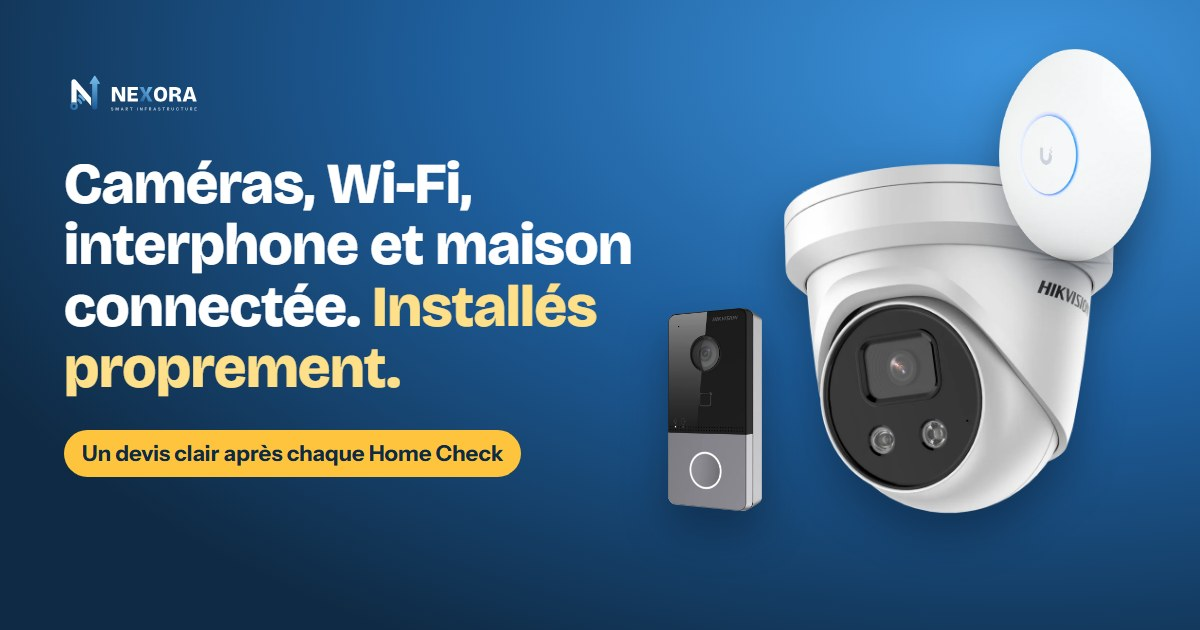
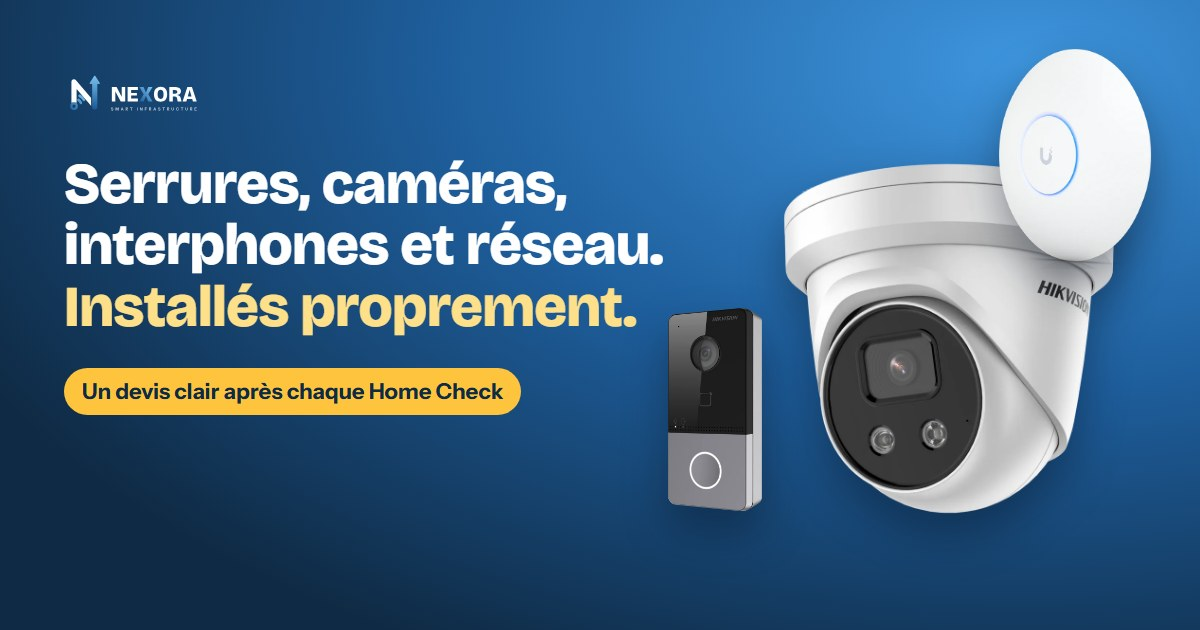
Low-voltage services first (locks, cameras, intercoms, network) and anonymous recent work in Ra'anana

Changed region(s): [[0.0308, 0.4524, 0.5242, 0.7841], [0.0308, 0.2413, 0.555, 0.4222]]

diff --git a/he/index.html b/he/index.html
@@ -26,8 +26,8 @@
   <section class="hero"><div class="in">
     <div>
       <div class="kicker">תשתיות חכמות · רעננה והשרון</div>
-      <h1>מצלמות, Wi-Fi, אינטרקום ובית חכם. <em>בהתקנה מקצועית.</em></h1>
-      <p class="sub">NEXORA מתכננת ומתקינה תשתיות חכמות לבתים ולעסקים: Wi-Fi מהיר בכל חדר, מצלמות מאובטחות, אינטרקום וידאו ואוטומציות.</p>
+      <h1>מנעולים, מצלמות, אינטרקום ורשת. <em>בהתקנה מקצועית.</em></h1>
+      <p class="sub">NEXORA מתכננת ומתקינה תשתיות חכמות לבתים ולעסקים: Wi-Fi מהיר בכל חדר, מצלמות מאובטחות, אינטרקום וידאו ואוטומציות. גם החלפת מערכות ישנות, תיקונים ותמיכה טכנית.</p>
       <div class="ctas"><a class="btn wa" href="https://wa.me/972586497991?text=%D7%A9%D7%9C%D7%95%D7%9D%20NEXORA%2C%20%D7%90%D7%A9%D7%9E%D7%97%20%D7%9C%D7%AA%D7%90%D7%9D%20%D7%91%D7%93%D7%99%D7%A7%D7%AA%20%D7%91%D7%99%D7%AA." target="_blank" rel="noopener"><svg viewBox="0 0 24 24" aria-hidden="true"><path d="M12 3a9 9 0 0 0-7.7 13.6L3 21l4.5-1.2A9 9 0 1 0 12 3z"/><path d="M9 8.5c0 3.6 2.9 6.5 6.5 6.5l1-1.6-2-1-1 1a4.5 4.5 0 0 1-2.4-2.4l1-1-1-2z"/></svg>דברו איתנו בוואטסאפ</a><a class="btn ghost" href="#book">לתיאום בדיקת בית</a></div>
       <div class="offer"><svg viewBox="0 0 24 24" aria-hidden="true"><path d="M5 12.5l4.5 4.5L19 7.5"/></svg>הצעת מחיר ברורה אחרי כל בדיקת בית</div>
     </div>
@@ -37,8 +37,10 @@
     </div>
   </div></section>
 
-  <section class="block" id="services"><h2 class="h2">מה אנחנו מתקינים</h2><div class="grid4"><article class="svc" style="--c:var(--network);--tint:#E5F0FB"><div class="pic"><img src="../img/s-network.webp" alt="" loading="lazy" width="300" height="200"></div><div class="txt"><h3>רשת ו-Wi-Fi</h3><p>Wi-Fi בכל חדר עם נקודות גישה מחווטות, כבילת Cat6 דרך צנרת קיימת כשאפשר, וארון תקשורת מסודר.</p><ul><li><svg viewBox="0 0 24 24" aria-hidden="true"><path d="M5 12.5l4.5 4.5L19 7.5"/></svg><span>נקודות גישה (UniFi, TP-Link Omada)</span></li><li><svg viewBox="0 0 24 24" aria-hidden="true"><path d="M5 12.5l4.5 4.5L19 7.5"/></svg><span>כבילת Cat6 ושקעי רשת</span></li><li><svg viewBox="0 0 24 24" aria-hidden="true"><path d="M5 12.5l4.5 4.5L19 7.5"/></svg><span>מתגי PoE, נתבים וארונות תקשורת</span></li></ul></div></article><article class="svc" style="--c:var(--security);--tint:#FFEDE7"><div class="pic"><img src="../img/s-security.webp" alt="" loading="lazy" width="300" height="200"></div><div class="txt"><h3>מצלמות אבטחה</h3><p>מצלמות IP עם הקלטה אצלכם, צפייה מהטלפון והגדרה מאובטחת.</p><ul><li><svg viewBox="0 0 24 24" aria-hidden="true"><path d="M5 12.5l4.5 4.5L19 7.5"/></svg><span>עד 4K, בהתאם לדגם</span></li><li><svg viewBox="0 0 24 24" aria-hidden="true"><path d="M5 12.5l4.5 4.5L19 7.5"/></svg><span>זיהוי אנשים ורכבים בדגמים תואמים</span></li><li><svg viewBox="0 0 24 24" aria-hidden="true"><path d="M5 12.5l4.5 4.5L19 7.5"/></svg><span>בלי מנוי חודשי להקלטה מקומית</span></li></ul></div></article><article class="svc" style="--c:var(--smart);--tint:#E2F6EF"><div class="pic"><img src="../img/s-smart.webp" alt="" loading="lazy" width="300" height="200"></div><div class="txt"><h3>בית חכם</h3><p>תאורה, תריסים, מזגן ודוד על לוחות זמנים חכמים, כולל מצב שבת, עם שליטה מקומית.</p><ul><li><svg viewBox="0 0 24 24" aria-hidden="true"><path d="M5 12.5l4.5 4.5L19 7.5"/></svg><span>ממסרים ומודולי תריס (Shelly, Sonoff)</span></li><li><svg viewBox="0 0 24 24" aria-hidden="true"><path d="M5 12.5l4.5 4.5L19 7.5"/></svg><span>חיישני הצפה, דלת ותנועה (Aqara)</span></li><li><svg viewBox="0 0 24 24" aria-hidden="true"><path d="M5 12.5l4.5 4.5L19 7.5"/></svg><span>Home Assistant, בלי ענן</span></li></ul></div></article><article class="svc" style="--c:var(--digital);--tint:#EEEAFE"><div class="pic"><img src="../img/s-digital.webp" alt="" loading="lazy" width="300" height="200"></div><div class="txt"><h3>אינטרקום ובקרת כניסה</h3><p>לראות מי בשער, לדבר מהטלפון ולפתוח מרחוק.</p><ul><li><svg viewBox="0 0 24 24" aria-hidden="true"><path d="M5 12.5l4.5 4.5L19 7.5"/></svg><span>אינטרקום וידאו (Hikvision)</span></li><li><svg viewBox="0 0 24 24" aria-hidden="true"><path d="M5 12.5l4.5 4.5L19 7.5"/></svg><span>פתיחת שער מרחוק*</span></li><li><svg viewBox="0 0 24 24" aria-hidden="true"><path d="M5 12.5l4.5 4.5L19 7.5"/></svg><span>קודנים, קוראי תגים ומנעולים חכמים</span></li></ul><small>* עם שער או מנעול חשמלי תואם</small></div></article></div>
+  <section class="block" id="services"><h2 class="h2">מה אנחנו מתקינים</h2><div class="grid4"><article class="svc" style="--c:var(--digital);--tint:#EEEAFE"><div class="pic"><img src="../img/s-digital.webp" alt="" loading="lazy" width="300" height="200"></div><div class="txt"><h3>מנעולים, בקרת כניסה ואינטרקום</h3><p>מנעולים חכמים, מנעולים חשמליים ומגנטים, תגים וקודנים, אינטרקום וידאו: רואים מי בשער ופותחים מרחוק.</p><ul><li><svg viewBox="0 0 24 24" aria-hidden="true"><path d="M5 12.5l4.5 4.5L19 7.5"/></svg><span>מנעולים חכמים וחשמליים, מגנטים</span></li><li><svg viewBox="0 0 24 24" aria-hidden="true"><path d="M5 12.5l4.5 4.5L19 7.5"/></svg><span>קודנים וקוראי תגים</span></li><li><svg viewBox="0 0 24 24" aria-hidden="true"><path d="M5 12.5l4.5 4.5L19 7.5"/></svg><span>אינטרקום וידאו, פתיחת שער מרחוק*</span></li></ul><small>* עם שער או מנעול חשמלי תואם</small></div></article><article class="svc" style="--c:var(--security);--tint:#FFEDE7"><div class="pic"><img src="../img/s-security.webp" alt="" loading="lazy" width="300" height="200"></div><div class="txt"><h3>מצלמות אבטחה</h3><p>מצלמות IP עם הקלטה אצלכם, צפייה מהטלפון והגדרה מאובטחת.</p><ul><li><svg viewBox="0 0 24 24" aria-hidden="true"><path d="M5 12.5l4.5 4.5L19 7.5"/></svg><span>עד 4K, בהתאם לדגם</span></li><li><svg viewBox="0 0 24 24" aria-hidden="true"><path d="M5 12.5l4.5 4.5L19 7.5"/></svg><span>זיהוי אנשים ורכבים בדגמים תואמים</span></li><li><svg viewBox="0 0 24 24" aria-hidden="true"><path d="M5 12.5l4.5 4.5L19 7.5"/></svg><span>בלי מנוי חודשי להקלטה מקומית</span></li></ul></div></article><article class="svc" style="--c:var(--network);--tint:#E5F0FB"><div class="pic"><img src="../img/s-network.webp" alt="" loading="lazy" width="300" height="200"></div><div class="txt"><h3>רשת ו-Wi-Fi</h3><p>Wi-Fi בכל חדר עם נקודות גישה מחווטות, כבילת Cat6 דרך צנרת קיימת כשאפשר, וארון תקשורת מסודר.</p><ul><li><svg viewBox="0 0 24 24" aria-hidden="true"><path d="M5 12.5l4.5 4.5L19 7.5"/></svg><span>נקודות גישה (UniFi, TP-Link Omada)</span></li><li><svg viewBox="0 0 24 24" aria-hidden="true"><path d="M5 12.5l4.5 4.5L19 7.5"/></svg><span>כבילת Cat6 ושקעי רשת</span></li><li><svg viewBox="0 0 24 24" aria-hidden="true"><path d="M5 12.5l4.5 4.5L19 7.5"/></svg><span>מתגי PoE, נתבים וארונות תקשורת</span></li></ul></div></article><article class="svc" style="--c:var(--smart);--tint:#E2F6EF"><div class="pic"><img src="../img/s-smart.webp" alt="" loading="lazy" width="300" height="200"></div><div class="txt"><h3>בית חכם</h3><p>תאורה, תריסים, מזגן ודוד על לוחות זמנים חכמים, כולל מצב שבת, עם שליטה מקומית.</p><ul><li><svg viewBox="0 0 24 24" aria-hidden="true"><path d="M5 12.5l4.5 4.5L19 7.5"/></svg><span>ממסרים ומודולי תריס (Shelly, Sonoff)</span></li><li><svg viewBox="0 0 24 24" aria-hidden="true"><path d="M5 12.5l4.5 4.5L19 7.5"/></svg><span>חיישני הצפה, דלת ותנועה (Aqara)</span></li><li><svg viewBox="0 0 24 24" aria-hidden="true"><path d="M5 12.5l4.5 4.5L19 7.5"/></svg><span>Home Assistant, בלי ענן</span></li></ul></div></article></div>
     <h3 class="h2" style="font-size:22px;margin-top:40px">המותגים שאנחנו מתקינים</h3><div class="brands"><span>Hikvision</span><span>Provision-ISR</span><span>Reolink</span><span>Ubiquiti UniFi</span><span>TP-Link Omada</span><span>Shelly</span><span>Aqara</span><span>Home Assistant</span><span>Nuki</span><span>Philips Hue</span></div></section>
+
+  <section class="block" id="refs"><h2 class="h2">עבודות אחרונות ברעננה</h2><div class="refs"><article class="ref"><div class="pic"><img src="../img/villa.webp" alt="" loading="lazy"></div><div class="txt"><small>רעננה · בית פרטי</small><h3>אינטרקום ישן הוחלף באינטרקום וידאו של Hikvision</h3><p>בעלי הבית רואים מי בשער ועונים מהטלפון.</p></div></article><article class="ref"><div class="pic"><img src="../img/turret.webp" alt="" loading="lazy"></div><div class="txt"><small>רעננה · בית כנסת</small><h3>מצלמות אבטחה לבית כנסת</h3><p>האחראים צופים במצלמות מרחוק, ישר מהטלפון.</p></div></article></div></section>
 
   <section class="block" id="how"><h2 class="h2">איך זה עובד</h2><div class="steps"><div class="step"><div class="n">1</div><h3>בדיקת בית</h3><p>ביקור של 45 עד 60 דקות: מדידת Wi-Fi בכל חדר, מצלמות, רשת ובית חכם.</p></div><div class="step"><div class="n">2</div><h3>הצעת מחיר ברורה</h3><p>מחיר לכל נקודה או חבילה, בלי הפתעות.</p></div><div class="step"><div class="n">3</div><h3>התקנה נקייה</h3><p>כבלים בדוקים ומסומנים, הגדרה מאובטחת, והדרכה על האפליקציה.</p></div></div>
     <h3 class="h2" style="font-size:26px;margin-top:46px">למה NEXORA</h3><div class="why"><div><svg viewBox="0 0 24 24" aria-hidden="true"><path d="M12 21s-7-6.2-7-11.5a7 7 0 0 1 14 0C19 14.8 12 21 12 21z"/><circle cx="12" cy="9.5" r="2.5"/></svg><b>מקומיים, ברעננה</b><p>קרובים אליכם בהתקנה, וגם אחריה.</p></div><div><svg viewBox="0 0 24 24" aria-hidden="true"><path d="M4 5h16v11H9l-5 4z"/></svg><b>עברית, אנגלית וצרפתית</b><p>מדברים איתכם בשפה שלכם.</p></div><div><svg viewBox="0 0 24 24" aria-hidden="true"><path d="M12 3l8 3v6c0 4.8-3.4 8-8 9.5C7.4 20 4 16.8 4 12V6z"/><path d="M8.5 12l2.5 2.5 4.5-5"/></svg><b>מאובטח כברירת מחדל</b><p>רשת נפרדת למצלמות, קושחה מעודכנת, בלי פורטים פתוחים.</p></div><div><svg viewBox="0 0 24 24" aria-hidden="true"><path d="M3 11l9-7 9 7"/><path d="M5 10v10h14V10"/><path d="M10 20v-5h4v5"/></svg><b>המידע נשאר אצלכם</b><p>הקלטה ואוטומציות מקומיות, בלי חובת מנוי.</p></div></div></section>

diff --git a/fr/index.html b/fr/index.html
@@ -26,8 +26,8 @@
   <section class="hero"><div class="in">
     <div>
       <div class="kicker">Smart Infrastructure · Ra'anana et le Sharon</div>
-      <h1>Caméras, Wi-Fi, interphone et maison connectée. <em>Installés proprement.</em></h1>
-      <p class="sub">NEXORA conçoit et installe l'infrastructure intelligente des maisons et des commerces : du Wi-Fi rapide dans chaque pièce, des caméras sécurisées, des interphones vidéo et des automatisations.</p>
+      <h1>Serrures, caméras, interphones et réseau. <em>Installés proprement.</em></h1>
+      <p class="sub">NEXORA conçoit et installe l'infrastructure intelligente des maisons et des commerces : du Wi-Fi rapide dans chaque pièce, des caméras sécurisées, des interphones vidéo et des automatisations. Remplacement d'anciens systèmes, réparation et aide technique aussi.</p>
       <div class="ctas"><a class="btn wa" href="https://wa.me/972586497991?text=Bonjour%20NEXORA%2C%20je%20voudrais%20r%C3%A9server%20un%20Home%20Check." target="_blank" rel="noopener"><svg viewBox="0 0 24 24" aria-hidden="true"><path d="M12 3a9 9 0 0 0-7.7 13.6L3 21l4.5-1.2A9 9 0 1 0 12 3z"/><path d="M9 8.5c0 3.6 2.9 6.5 6.5 6.5l1-1.6-2-1-1 1a4.5 4.5 0 0 1-2.4-2.4l1-1-1-2z"/></svg>Écrivez-nous sur WhatsApp</a><a class="btn ghost" href="#book">Réserver un Home Check</a></div>
       <div class="offer"><svg viewBox="0 0 24 24" aria-hidden="true"><path d="M5 12.5l4.5 4.5L19 7.5"/></svg>Un devis clair après chaque Home Check</div>
     </div>
@@ -37,8 +37,10 @@
     </div>
   </div></section>
 
-  <section class="block" id="services"><h2 class="h2">Ce qu'on installe</h2><div class="grid4"><article class="svc" style="--c:var(--network);--tint:#E5F0FB"><div class="pic"><img src="../img/s-network.webp" alt="" loading="lazy" width="300" height="200"></div><div class="txt"><h3>Réseau et Wi-Fi</h3><p>Du Wi-Fi dans chaque pièce avec des points d'accès câblés, du Cat6 passé dans les gaines existantes quand c'est possible, et une baie réseau bien rangée.</p><ul><li><svg viewBox="0 0 24 24" aria-hidden="true"><path d="M5 12.5l4.5 4.5L19 7.5"/></svg><span>Points d'accès (UniFi, TP-Link Omada)</span></li><li><svg viewBox="0 0 24 24" aria-hidden="true"><path d="M5 12.5l4.5 4.5L19 7.5"/></svg><span>Câblage Cat6 et prises murales</span></li><li><svg viewBox="0 0 24 24" aria-hidden="true"><path d="M5 12.5l4.5 4.5L19 7.5"/></svg><span>Switchs PoE, routeurs, baies</span></li></ul></div></article><article class="svc" style="--c:var(--security);--tint:#FFEDE7"><div class="pic"><img src="../img/s-security.webp" alt="" loading="lazy" width="300" height="200"></div><div class="txt"><h3>Caméras de sécurité</h3><p>Des caméras IP enregistrées chez vous, visibles sur votre téléphone, et configurées de façon sécurisée.</p><ul><li><svg viewBox="0 0 24 24" aria-hidden="true"><path d="M5 12.5l4.5 4.5L19 7.5"/></svg><span>Jusqu'à 4K, selon le modèle</span></li><li><svg viewBox="0 0 24 24" aria-hidden="true"><path d="M5 12.5l4.5 4.5L19 7.5"/></svg><span>Détection de personnes et de véhicules sur les modèles compatibles</span></li><li><svg viewBox="0 0 24 24" aria-hidden="true"><path d="M5 12.5l4.5 4.5L19 7.5"/></svg><span>Pas d'abonnement pour l'enregistrement local</span></li></ul></div></article><article class="svc" style="--c:var(--smart);--tint:#E2F6EF"><div class="pic"><img src="../img/s-smart.webp" alt="" loading="lazy" width="300" height="200"></div><div class="txt"><h3>Maison connectée</h3><p>Lumières, volets, clim et chauffe-eau (dud) sur des programmes intelligents, mode Shabbat compris, en local.</p><ul><li><svg viewBox="0 0 24 24" aria-hidden="true"><path d="M5 12.5l4.5 4.5L19 7.5"/></svg><span>Relais et modules de volets (Shelly, Sonoff)</span></li><li><svg viewBox="0 0 24 24" aria-hidden="true"><path d="M5 12.5l4.5 4.5L19 7.5"/></svg><span>Capteurs de fuite, de porte et de mouvement (Aqara)</span></li><li><svg viewBox="0 0 24 24" aria-hidden="true"><path d="M5 12.5l4.5 4.5L19 7.5"/></svg><span>Home Assistant, sans cloud</span></li></ul></div></article><article class="svc" style="--c:var(--digital);--tint:#EEEAFE"><div class="pic"><img src="../img/s-digital.webp" alt="" loading="lazy" width="300" height="200"></div><div class="txt"><h3>Interphone et accès</h3><p>Voir qui est au portail, parler depuis votre téléphone et ouvrir à distance.</p><ul><li><svg viewBox="0 0 24 24" aria-hidden="true"><path d="M5 12.5l4.5 4.5L19 7.5"/></svg><span>Interphones vidéo (Hikvision)</span></li><li><svg viewBox="0 0 24 24" aria-hidden="true"><path d="M5 12.5l4.5 4.5L19 7.5"/></svg><span>Ouverture du portail à distance*</span></li><li><svg viewBox="0 0 24 24" aria-hidden="true"><path d="M5 12.5l4.5 4.5L19 7.5"/></svg><span>Claviers à code, lecteurs de badge, serrures connectées</span></li></ul><small>* avec un portail ou une serrure électrique compatible</small></div></article></div>
+  <section class="block" id="services"><h2 class="h2">Ce qu'on installe</h2><div class="grid4"><article class="svc" style="--c:var(--digital);--tint:#EEEAFE"><div class="pic"><img src="../img/s-digital.webp" alt="" loading="lazy" width="300" height="200"></div><div class="txt"><h3>Serrures, accès et interphone</h3><p>Serrures connectées, serrures électriques et ventouses, badges et codes, interphones vidéo : on voit qui sonne et on ouvre à distance.</p><ul><li><svg viewBox="0 0 24 24" aria-hidden="true"><path d="M5 12.5l4.5 4.5L19 7.5"/></svg><span>Serrures connectées et électriques, ventouses</span></li><li><svg viewBox="0 0 24 24" aria-hidden="true"><path d="M5 12.5l4.5 4.5L19 7.5"/></svg><span>Claviers à code et lecteurs de badge</span></li><li><svg viewBox="0 0 24 24" aria-hidden="true"><path d="M5 12.5l4.5 4.5L19 7.5"/></svg><span>Interphones vidéo, ouverture du portail à distance*</span></li></ul><small>* avec un portail ou une serrure électrique compatible</small></div></article><article class="svc" style="--c:var(--security);--tint:#FFEDE7"><div class="pic"><img src="../img/s-security.webp" alt="" loading="lazy" width="300" height="200"></div><div class="txt"><h3>Caméras de sécurité</h3><p>Des caméras IP enregistrées chez vous, visibles sur votre téléphone, et configurées de façon sécurisée.</p><ul><li><svg viewBox="0 0 24 24" aria-hidden="true"><path d="M5 12.5l4.5 4.5L19 7.5"/></svg><span>Jusqu'à 4K, selon le modèle</span></li><li><svg viewBox="0 0 24 24" aria-hidden="true"><path d="M5 12.5l4.5 4.5L19 7.5"/></svg><span>Détection de personnes et de véhicules sur les modèles compatibles</span></li><li><svg viewBox="0 0 24 24" aria-hidden="true"><path d="M5 12.5l4.5 4.5L19 7.5"/></svg><span>Pas d'abonnement pour l'enregistrement local</span></li></ul></div></article><article class="svc" style="--c:var(--network);--tint:#E5F0FB"><div class="pic"><img src="../img/s-network.webp" alt="" loading="lazy" width="300" height="200"></div><div class="txt"><h3>Réseau et Wi-Fi</h3><p>Du Wi-Fi dans chaque pièce avec des points d'accès câblés, du Cat6 passé dans les gaines existantes quand c'est possible, et une baie réseau bien rangée.</p><ul><li><svg viewBox="0 0 24 24" aria-hidden="true"><path d="M5 12.5l4.5 4.5L19 7.5"/></svg><span>Points d'accès (UniFi, TP-Link Omada)</span></li><li><svg viewBox="0 0 24 24" aria-hidden="true"><path d="M5 12.5l4.5 4.5L19 7.5"/></svg><span>Câblage Cat6 et prises murales</span></li><li><svg viewBox="0 0 24 24" aria-hidden="true"><path d="M5 12.5l4.5 4.5L19 7.5"/></svg><span>Switchs PoE, routeurs, baies</span></li></ul></div></article><article class="svc" style="--c:var(--smart);--tint:#E2F6EF"><div class="pic"><img src="../img/s-smart.webp" alt="" loading="lazy" width="300" height="200"></div><div class="txt"><h3>Maison connectée</h3><p>Lumières, volets, clim et chauffe-eau (dud) sur des programmes intelligents, mode Shabbat compris, en local.</p><ul><li><svg viewBox="0 0 24 24" aria-hidden="true"><path d="M5 12.5l4.5 4.5L19 7.5"/></svg><span>Relais et modules de volets (Shelly, Sonoff)</span></li><li><svg viewBox="0 0 24 24" aria-hidden="true"><path d="M5 12.5l4.5 4.5L19 7.5"/></svg><span>Capteurs de fuite, de porte et de mouvement (Aqara)</span></li><li><svg viewBox="0 0 24 24" aria-hidden="true"><path d="M5 12.5l4.5 4.5L19 7.5"/></svg><span>Home Assistant, sans cloud</span></li></ul></div></article></div>
     <h3 class="h2" style="font-size:22px;margin-top:40px">Les marques qu'on installe</h3><div class="brands"><span>Hikvision</span><span>Provision-ISR</span><span>Reolink</span><span>Ubiquiti UniFi</span><span>TP-Link Omada</span><span>Shelly</span><span>Aqara</span><span>Home Assistant</span><span>Nuki</span><span>Philips Hue</span></div></section>
+
+  <section class="block" id="refs"><h2 class="h2">Réalisations à Ra'anana</h2><div class="refs"><article class="ref"><div class="pic"><img src="../img/villa.webp" alt="" loading="lazy"></div><div class="txt"><small>Ra'anana · Maison</small><h3>Ancien interphone remplacé par un interphone vidéo Hikvision</h3><p>Les propriétaires voient qui sonne au portail et répondent depuis leur téléphone.</p></div></article><article class="ref"><div class="pic"><img src="../img/turret.webp" alt="" loading="lazy"></div><div class="txt"><small>Ra'anana · Synagogue</small><h3>Caméras de surveillance pour une synagogue</h3><p>Les responsables consultent les caméras à distance, depuis leur téléphone.</p></div></article></div></section>
 
   <section class="block" id="how"><h2 class="h2">Comment ça marche</h2><div class="steps"><div class="step"><div class="n">1</div><h3>Home Check</h3><p>Une visite de 45 à 60 minutes : Wi-Fi mesuré pièce par pièce, caméras, réseau et maison connectée.</p></div><div class="step"><div class="n">2</div><h3>Un devis clair</h3><p>Un prix par point ou par pack, sans surprise.</p></div><div class="step"><div class="n">3</div><h3>Une installation propre</h3><p>Des câbles testés et étiquetés, une configuration sécurisée, et on vous montre l'appli.</p></div></div>
     <h3 class="h2" style="font-size:26px;margin-top:46px">Pourquoi NEXORA</h3><div class="why"><div><svg viewBox="0 0 24 24" aria-hidden="true"><path d="M12 21s-7-6.2-7-11.5a7 7 0 0 1 14 0C19 14.8 12 21 12 21z"/><circle cx="12" cy="9.5" r="2.5"/></svg><b>Local, à Ra'anana</b><p>À côté de chez vous pour l'installation, et après.</p></div><div><svg viewBox="0 0 24 24" aria-hidden="true"><path d="M4 5h16v11H9l-5 4z"/></svg><b>Français, anglais, hébreu</b><p>Parlez-nous dans votre langue.</p></div><div><svg viewBox="0 0 24 24" aria-hidden="true"><path d="M12 3l8 3v6c0 4.8-3.4 8-8 9.5C7.4 20 4 16.8 4 12V6z"/><path d="M8.5 12l2.5 2.5 4.5-5"/></svg><b>Sécurisé par défaut</b><p>Un réseau séparé pour les caméras, un firmware à jour, aucun port ouvert.</p></div><div><svg viewBox="0 0 24 24" aria-hidden="true"><path d="M3 11l9-7 9 7"/><path d="M5 10v10h14V10"/><path d="M10 20v-5h4v5"/></svg><b>Vos données restent chez vous</b><p>Enregistrement et automatisations en local, sans abonnement obligatoire.</p></div></div></section>

diff --git a/en/index.html b/en/index.html
@@ -26,8 +26,8 @@
   <section class="hero"><div class="in">
     <div>
       <div class="kicker">Smart Infrastructure · Ra'anana & the Sharon</div>
-      <h1>Cameras, Wi-Fi, intercom &amp; smart home. <em>Installed properly.</em></h1>
-      <p class="sub">NEXORA designs and installs the smart infrastructure of homes and businesses: fast Wi-Fi in every room, secure cameras, video intercoms and automations.</p>
+      <h1>Locks, cameras, intercoms &amp; networks. <em>Installed properly.</em></h1>
+      <p class="sub">NEXORA designs and installs the smart infrastructure of homes and businesses: fast Wi-Fi in every room, secure cameras, video intercoms and automations. Old systems replaced, repairs and tech support too.</p>
       <div class="ctas"><a class="btn wa" href="https://wa.me/972586497991?text=Hi%20NEXORA%2C%20I%27d%20like%20to%20book%20a%20Home%20Check." target="_blank" rel="noopener"><svg viewBox="0 0 24 24" aria-hidden="true"><path d="M12 3a9 9 0 0 0-7.7 13.6L3 21l4.5-1.2A9 9 0 1 0 12 3z"/><path d="M9 8.5c0 3.6 2.9 6.5 6.5 6.5l1-1.6-2-1-1 1a4.5 4.5 0 0 1-2.4-2.4l1-1-1-2z"/></svg>WhatsApp us</a><a class="btn ghost" href="#book">Book a Home Check</a></div>
       <div class="offer"><svg viewBox="0 0 24 24" aria-hidden="true"><path d="M5 12.5l4.5 4.5L19 7.5"/></svg>A clear quote after every Home Check</div>
     </div>
@@ -37,8 +37,10 @@
     </div>
   </div></section>
 
-  <section class="block" id="services"><h2 class="h2">What we install</h2><div class="grid4"><article class="svc" style="--c:var(--network);--tint:#E5F0FB"><div class="pic"><img src="../img/s-network.webp" alt="" loading="lazy" width="300" height="200"></div><div class="txt"><h3>Network &amp; Wi-Fi</h3><p>Wi-Fi in every room with wired access points, Cat6 cabling through existing conduits when possible, and a tidy network cabinet.</p><ul><li><svg viewBox="0 0 24 24" aria-hidden="true"><path d="M5 12.5l4.5 4.5L19 7.5"/></svg><span>Access points (UniFi, TP-Link Omada)</span></li><li><svg viewBox="0 0 24 24" aria-hidden="true"><path d="M5 12.5l4.5 4.5L19 7.5"/></svg><span>Cat6 cabling &amp; wall sockets</span></li><li><svg viewBox="0 0 24 24" aria-hidden="true"><path d="M5 12.5l4.5 4.5L19 7.5"/></svg><span>PoE switches, routers, cabinets</span></li></ul></div></article><article class="svc" style="--c:var(--security);--tint:#FFEDE7"><div class="pic"><img src="../img/s-security.webp" alt="" loading="lazy" width="300" height="200"></div><div class="txt"><h3>Security cameras</h3><p>IP cameras recorded at your place, watched from your phone, set up the secure way.</p><ul><li><svg viewBox="0 0 24 24" aria-hidden="true"><path d="M5 12.5l4.5 4.5L19 7.5"/></svg><span>Up to 4K, depending on the model</span></li><li><svg viewBox="0 0 24 24" aria-hidden="true"><path d="M5 12.5l4.5 4.5L19 7.5"/></svg><span>Person &amp; vehicle detection on compatible models</span></li><li><svg viewBox="0 0 24 24" aria-hidden="true"><path d="M5 12.5l4.5 4.5L19 7.5"/></svg><span>No monthly fee for local recording</span></li></ul></div></article><article class="svc" style="--c:var(--smart);--tint:#E2F6EF"><div class="pic"><img src="../img/s-smart.webp" alt="" loading="lazy" width="300" height="200"></div><div class="txt"><h3>Smart home</h3><p>Lights, shutters, AC and the water heater on smart schedules, Shabbat mode included, running locally.</p><ul><li><svg viewBox="0 0 24 24" aria-hidden="true"><path d="M5 12.5l4.5 4.5L19 7.5"/></svg><span>Smart relays &amp; shutter modules (Shelly, Sonoff)</span></li><li><svg viewBox="0 0 24 24" aria-hidden="true"><path d="M5 12.5l4.5 4.5L19 7.5"/></svg><span>Leak, door and motion sensors (Aqara)</span></li><li><svg viewBox="0 0 24 24" aria-hidden="true"><path d="M5 12.5l4.5 4.5L19 7.5"/></svg><span>Home Assistant, no cloud needed</span></li></ul></div></article><article class="svc" style="--c:var(--digital);--tint:#EEEAFE"><div class="pic"><img src="../img/s-digital.webp" alt="" loading="lazy" width="300" height="200"></div><div class="txt"><h3>Intercom &amp; access</h3><p>See who's at the gate, talk from your phone and open remotely.</p><ul><li><svg viewBox="0 0 24 24" aria-hidden="true"><path d="M5 12.5l4.5 4.5L19 7.5"/></svg><span>Video intercoms (Hikvision)</span></li><li><svg viewBox="0 0 24 24" aria-hidden="true"><path d="M5 12.5l4.5 4.5L19 7.5"/></svg><span>Remote gate opening*</span></li><li><svg viewBox="0 0 24 24" aria-hidden="true"><path d="M5 12.5l4.5 4.5L19 7.5"/></svg><span>Keypads, badge readers, smart locks</span></li></ul><small>* with a compatible electric gate or lock</small></div></article></div>
+  <section class="block" id="services"><h2 class="h2">What we install</h2><div class="grid4"><article class="svc" style="--c:var(--digital);--tint:#EEEAFE"><div class="pic"><img src="../img/s-digital.webp" alt="" loading="lazy" width="300" height="200"></div><div class="txt"><h3>Locks, access &amp; intercom</h3><p>Smart locks, electric locks and maglocks, badges and keypads, video intercoms: see who's at the gate and open remotely.</p><ul><li><svg viewBox="0 0 24 24" aria-hidden="true"><path d="M5 12.5l4.5 4.5L19 7.5"/></svg><span>Smart and electric locks, maglocks</span></li><li><svg viewBox="0 0 24 24" aria-hidden="true"><path d="M5 12.5l4.5 4.5L19 7.5"/></svg><span>Keypads and badge readers</span></li><li><svg viewBox="0 0 24 24" aria-hidden="true"><path d="M5 12.5l4.5 4.5L19 7.5"/></svg><span>Video intercoms, remote gate opening*</span></li></ul><small>* with a compatible electric gate or lock</small></div></article><article class="svc" style="--c:var(--security);--tint:#FFEDE7"><div class="pic"><img src="../img/s-security.webp" alt="" loading="lazy" width="300" height="200"></div><div class="txt"><h3>Security cameras</h3><p>IP cameras recorded at your place, watched from your phone, set up the secure way.</p><ul><li><svg viewBox="0 0 24 24" aria-hidden="true"><path d="M5 12.5l4.5 4.5L19 7.5"/></svg><span>Up to 4K, depending on the model</span></li><li><svg viewBox="0 0 24 24" aria-hidden="true"><path d="M5 12.5l4.5 4.5L19 7.5"/></svg><span>Person &amp; vehicle detection on compatible models</span></li><li><svg viewBox="0 0 24 24" aria-hidden="true"><path d="M5 12.5l4.5 4.5L19 7.5"/></svg><span>No monthly fee for local recording</span></li></ul></div></article><article class="svc" style="--c:var(--network);--tint:#E5F0FB"><div class="pic"><img src="../img/s-network.webp" alt="" loading="lazy" width="300" height="200"></div><div class="txt"><h3>Network &amp; Wi-Fi</h3><p>Wi-Fi in every room with wired access points, Cat6 cabling through existing conduits when possible, and a tidy network cabinet.</p><ul><li><svg viewBox="0 0 24 24" aria-hidden="true"><path d="M5 12.5l4.5 4.5L19 7.5"/></svg><span>Access points (UniFi, TP-Link Omada)</span></li><li><svg viewBox="0 0 24 24" aria-hidden="true"><path d="M5 12.5l4.5 4.5L19 7.5"/></svg><span>Cat6 cabling &amp; wall sockets</span></li><li><svg viewBox="0 0 24 24" aria-hidden="true"><path d="M5 12.5l4.5 4.5L19 7.5"/></svg><span>PoE switches, routers, cabinets</span></li></ul></div></article><article class="svc" style="--c:var(--smart);--tint:#E2F6EF"><div class="pic"><img src="../img/s-smart.webp" alt="" loading="lazy" width="300" height="200"></div><div class="txt"><h3>Smart home</h3><p>Lights, shutters, AC and the water heater on smart schedules, Shabbat mode included, running locally.</p><ul><li><svg viewBox="0 0 24 24" aria-hidden="true"><path d="M5 12.5l4.5 4.5L19 7.5"/></svg><span>Smart relays &amp; shutter modules (Shelly, Sonoff)</span></li><li><svg viewBox="0 0 24 24" aria-hidden="true"><path d="M5 12.5l4.5 4.5L19 7.5"/></svg><span>Leak, door and motion sensors (Aqara)</span></li><li><svg viewBox="0 0 24 24" aria-hidden="true"><path d="M5 12.5l4.5 4.5L19 7.5"/></svg><span>Home Assistant, no cloud needed</span></li></ul></div></article></div>
     <h3 class="h2" style="font-size:22px;margin-top:40px">Brands we install</h3><div class="brands"><span>Hikvision</span><span>Provision-ISR</span><span>Reolink</span><span>Ubiquiti UniFi</span><span>TP-Link Omada</span><span>Shelly</span><span>Aqara</span><span>Home Assistant</span><span>Nuki</span><span>Philips Hue</span></div></section>
+
+  <section class="block" id="refs"><h2 class="h2">Recent work in Ra'anana</h2><div class="refs"><article class="ref"><div class="pic"><img src="../img/villa.webp" alt="" loading="lazy"></div><div class="txt"><small>Ra'anana · House</small><h3>Old intercom replaced by a Hikvision video intercom</h3><p>The owners see who is at the gate and answer from their phone.</p></div></article><article class="ref"><div class="pic"><img src="../img/turret.webp" alt="" loading="lazy"></div><div class="txt"><small>Ra'anana · Synagogue</small><h3>Security cameras for a synagogue</h3><p>The managers watch the cameras remotely, from their phone.</p></div></article></div></section>
 
   <section class="block" id="how"><h2 class="h2">How it works</h2><div class="steps"><div class="step"><div class="n">1</div><h3>Home Check</h3><p>A 45 to 60 minute visit: Wi-Fi measured room by room, cameras, network and smart home.</p></div><div class="step"><div class="n">2</div><h3>A clear quote</h3><p>A price per point or per pack, with no surprises.</p></div><div class="step"><div class="n">3</div><h3>A clean install</h3><p>Tested and labelled cables, a secure setup, and we show you the app.</p></div></div>
     <h3 class="h2" style="font-size:26px;margin-top:46px">Why NEXORA</h3><div class="why"><div><svg viewBox="0 0 24 24" aria-hidden="true"><path d="M12 21s-7-6.2-7-11.5a7 7 0 0 1 14 0C19 14.8 12 21 12 21z"/><circle cx="12" cy="9.5" r="2.5"/></svg><b>Local, in Ra'anana</b><p>Around the corner for the install, and after.</p></div><div><svg viewBox="0 0 24 24" aria-hidden="true"><path d="M4 5h16v11H9l-5 4z"/></svg><b>Hebrew, English &amp; French</b><p>Talk to us in your language.</p></div><div><svg viewBox="0 0 24 24" aria-hidden="true"><path d="M12 3l8 3v6c0 4.8-3.4 8-8 9.5C7.4 20 4 16.8 4 12V6z"/><path d="M8.5 12l2.5 2.5 4.5-5"/></svg><b>Secure by default</b><p>A separate network for cameras, updated firmware, no open ports.</p></div><div><svg viewBox="0 0 24 24" aria-hidden="true"><path d="M3 11l9-7 9 7"/><path d="M5 10v10h14V10"/><path d="M10 20v-5h4v5"/></svg><b>Your data stays home</b><p>Local recording and local automations, no subscription required.</p></div></div></section>

diff --git a/site.css b/site.css
@@ -1,3 +1,11 @@
+.refs { display:grid; grid-template-columns:repeat(auto-fit,minmax(300px,1fr)); gap:22px; margin-top:28px; }
+.ref { display:flex; gap:20px; align-items:center; padding:22px; border-radius:24px; background:#fff; box-shadow:0 10px 26px rgba(15,42,68,.07); }
+.ref .pic { flex:none; width:120px; height:120px; border-radius:18px; background:#EEF3F9; display:grid; place-items:center; }
+.ref .pic img { max-width:96px; max-height:100px; object-fit:contain; }
+.ref small { font-weight:700; font-size:13px; letter-spacing:.08em; text-transform:uppercase; color:#2F6FD1; }
+.ref h3 { margin-top:6px; font-size:19px; line-height:1.25; }
+.ref p { margin-top:6px; font-size:15px; color:#4A5A6E; }
+
 :root { --navy: #0F2A44; --ink: #1B3550; --muted: #4F6780; --line: #E3EAF2; --bg: #F5F8FC; --card: #FFFFFF;
   --network: #2F7FD1; --security: #EE5D3C; --smart: #0FA57B; --digital: #6F55EE; --sun: #FFC43D; --wa: #12B386;
   --head: 'Bricolage Grotesque', 'Segoe UI', system-ui, sans-serif; --body: 'Instrument Sans', 'Segoe UI', system-ui, sans-serif;
